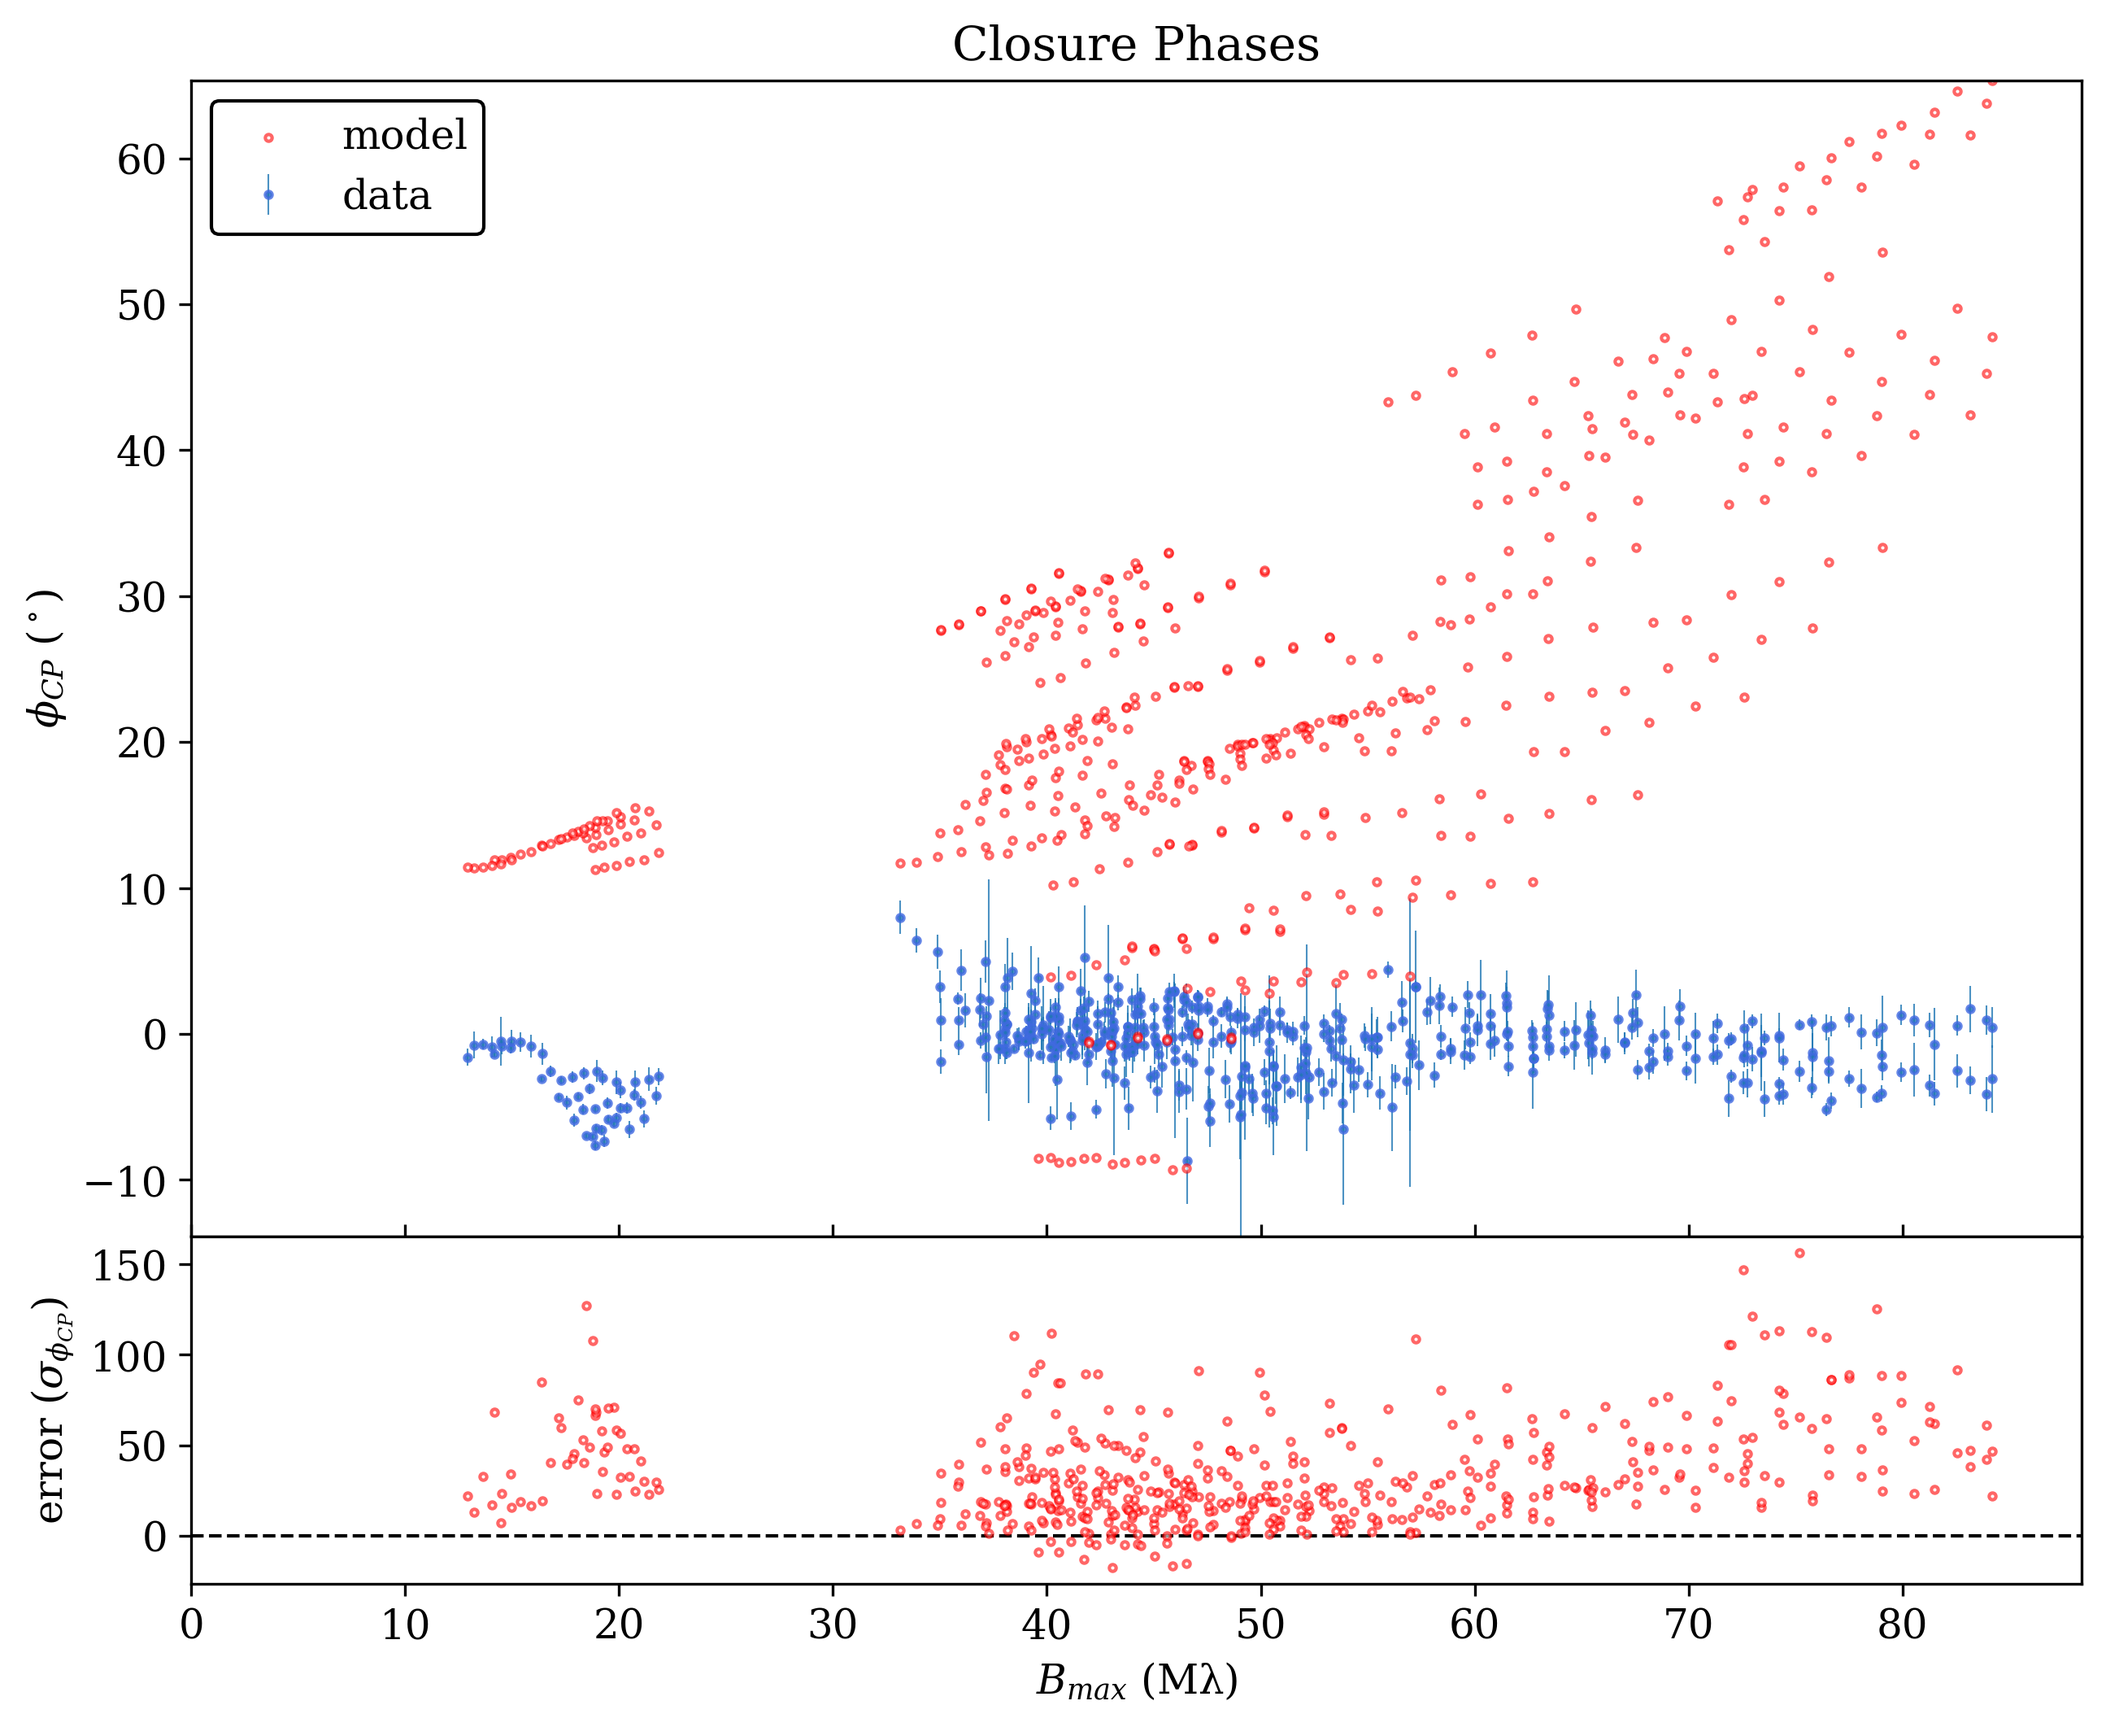
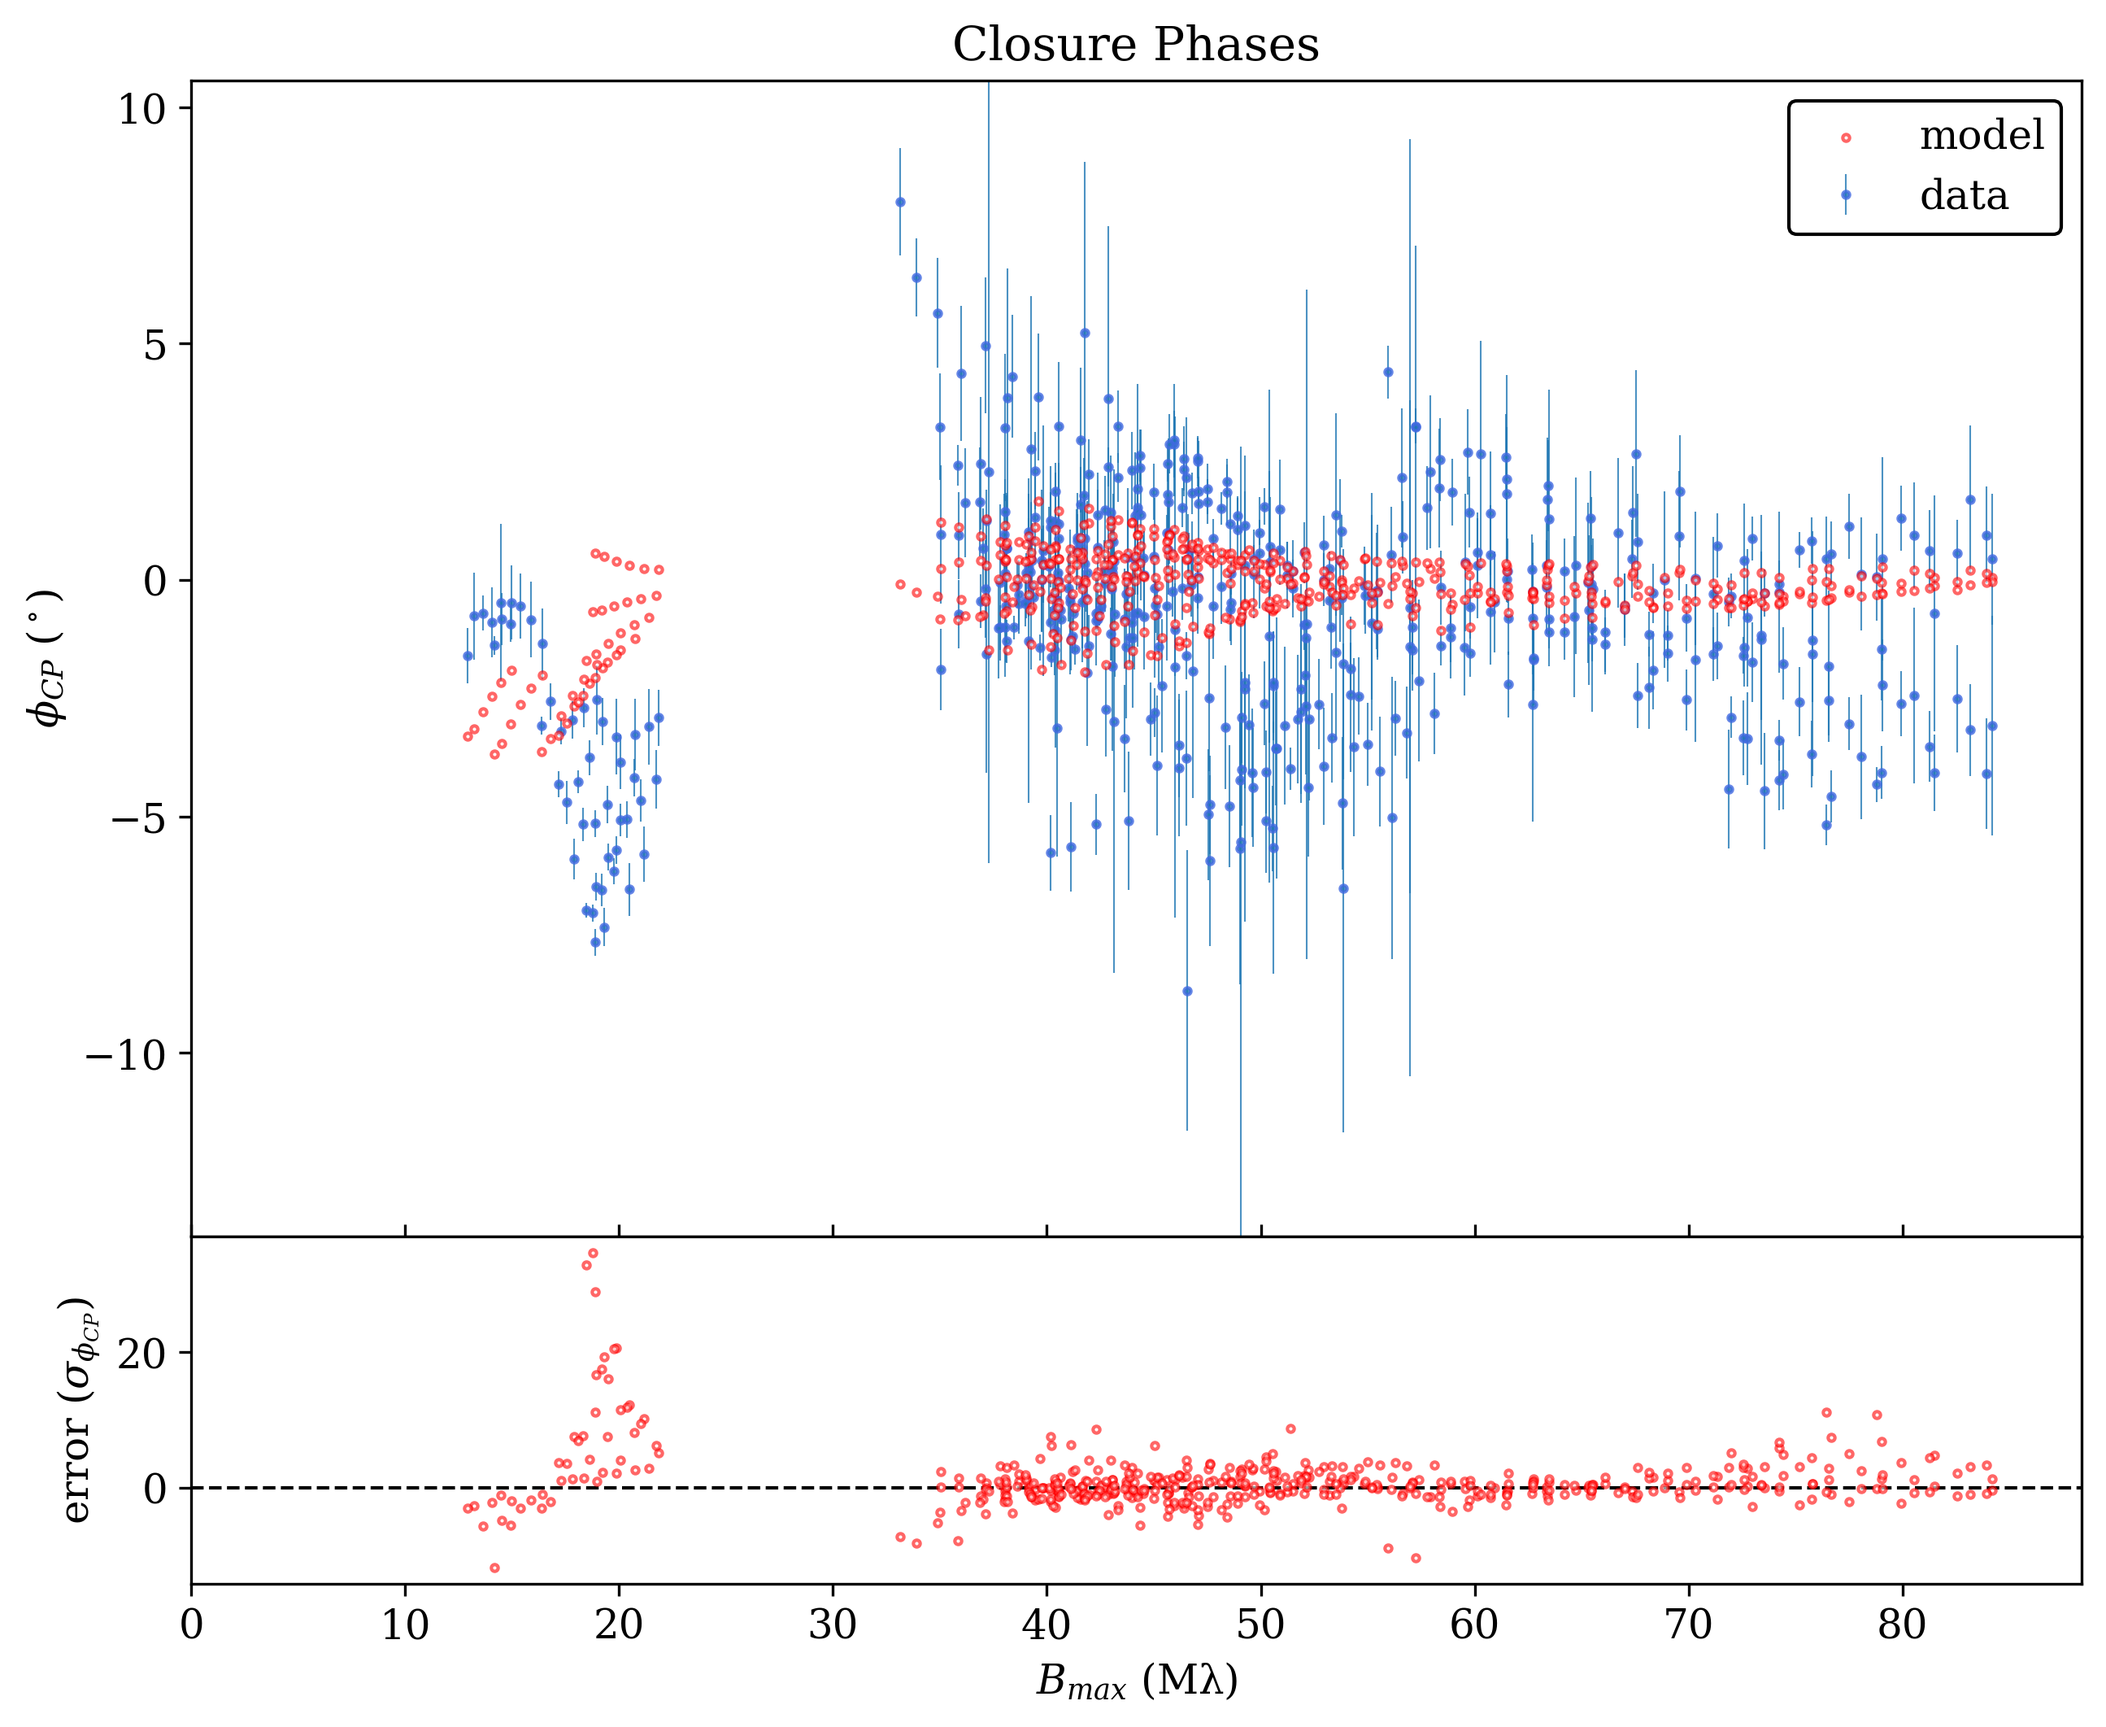
Adapted the README to reflect the MIT license.

diff --git a/examples/adding_geometric_components.py b/examples/adding_geometric_components.py
@@ -10,6 +10,7 @@ import distroi
 # Read in the data to an OIContainer object
 data_dir, data_file = "./data/IRAS08544-4431/PIONIER/", "*.fits"
 container_data = distroi.read_oi_container_from_oifits(data_dir, data_file)
+container_data.plot_data()
 
 # set path to mcfost model (including where to find model images) and output plotted figures
 mod_dir = "./models/IRAS08544-4431_test_model/"
@@ -25,7 +26,7 @@ distroi.oi_container_plot_data_vs_model(container_data, container_model, fig_dir
 background = distroi.Overresolved(spc_dep=distroi.FlatSpecDep(flux_form="flam"))
 
 container_model = distroi.oi_container_calc_image_fft_observables(
-    container_data, img_ffts, geom_comps=[background], geom_comp_flux_fracs=[0.10], ref_wavelength=1.65
+    container_data, img_ffts, geom_comps=[background], geom_comp_flux_fracs=[0.70], ref_wavelength=1.65
 )
 distroi.oi_container_plot_data_vs_model(container_data, container_model, fig_dir=f"{fig_dir}", show_plots=True)
 

diff --git a/README.md b/README.md
@@ -45,12 +45,10 @@ If you face any issues when installing or using `DISTROI`, report them at the pr
 
 # License
 
-DISTROI is free software: you can redistribute it and/or modify it under the terms of the GNU General Public License
-as published by  the Free Software Foundation, either version 3.0 of the License, or (at your option) any later version.
+DISTROI is free software: you can redistribute it and/or modify it under the terms of the MIT license.
 DISTROI is distributed in the hope that it will be useful, but WITHOUT ANY WARRANTY; without even the implied warranty
-of  MERCHANTABILITY or FITNESS FOR A PARTICULAR PURPOSE. See the  GNU General Public License for more details.
-You should have received a copy of the GNU General Public License along with DISTROI. If not, see
-<https://www.gnu.org/licenses/>.
+of MERCHANTABILITY or FITNESS FOR A PARTICULAR PURPOSE. You should have received a copy of the MIT license along with DISTROI.
+If not, see <https://opensource.org/license/mit>.
 
 ---
 
